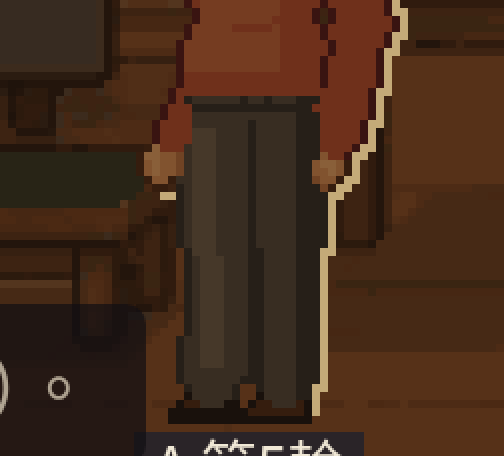
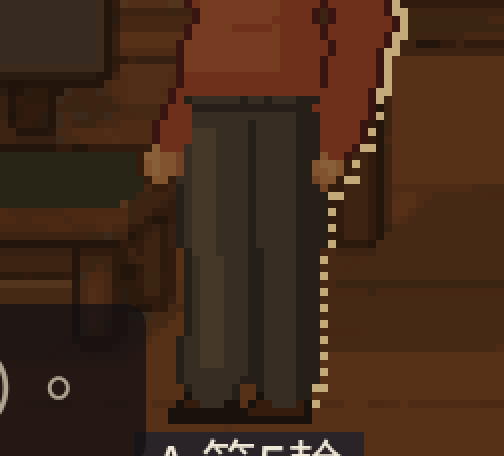
Phone B DEV: fade evening rim below the waist; drop occluded light-side and notch-top pixels
The left-hand stray was an open >1px arm/body gap treated as a right-facing edge.
A light-side rim pixel is kept only if a same-row scan toward the light meets no
opaque sprite pixel. Top rim likewise requires a clear column above. Waist is
55% of the opaque bbox (no belt pinch); below it, every other light-side row.

Changed region(s): [[0.5952, 0.2149, 0.7738, 0.9211], [0.3274, 0.3991, 0.3571, 0.4605]]

diff --git a/game.js b/game.js
@@ -368,27 +368,36 @@ function ease(t) { return t < 0.5 ? 2 * t * t : 1 - Math.pow(-2 * t + 2, 2) / 2;
 // Colour #c4aa78 is grandpa_khaki light in the 48-colour family palette
 // (and in the 3349 palette).
 //
-// Not a full ring (王 + 王子 2026-11-11). A candidate rim pixel must be:
+// Not a full ring (王 + 王子 2026-11-11, tightened 王/王子/小兵2號).
+// A candidate rim pixel must be:
 //   1. Transparent, 8-adjacent to the silhouette, and in the exterior
 //      region (4-connected flood from the padded canvas border). Enclosed
 //      holes (e.g. between arm and body) are not exterior, so they get no rim.
 //   2. Not in a 1 px channel (opaque on both left and right, or both above
 //      and below) — this also drops gaps open to the outside, e.g. between legs.
 //   3. Strictly above the floor-contact row (the sprite's lowest opaque row).
-//      No rim on or below that row, so the character does not look as if
-//      it is floating.
-//   4. Either (a) an upward-facing edge in the upper 40% of the opaque
-//      bbox — neighbouring opaque pixel is directly below; this is the top
-//      of the head and the shoulders — or (b) a light-facing side edge
-//      (opaque neighbour toward the anti-light side) over the remaining
-//      height. No rim on the back-lit side.
+//   4. Either (a) an upward-facing, unoccluded-above edge in the upper 30%
+//      of the opaque bbox (head and shoulder crown: opaque directly below,
+//      and no opaque pixel above in the same column), or (b) a light-facing
+//      side edge that is the outermost contour toward the light: an opaque
+//      neighbour toward the anti-light side, AND scanning along the same
+//      row TOWARD the light (world direction, already flipped into
+//      localLight) meets no opaque sprite pixel. A gap wider than 1 px
+//      between the back-lit arm and the body used to count as a right-facing
+//      edge (the arm sat to the left of the gap pixel); the unoccluded
+//      scan drops those. Scanning the other way (toward the back-lit side)
+//      would keep the stray left-hand dots, so that is not the test.
+//   5. Below the waist, light-side pixels are drawn only on alternate rows
+//      (the first row below the waist is skipped). The waist is 55% down
+//      the opaque bbox; there is no clear belt pinch on these sprites.
 // Light side is a world direction from the backdrop (manifest light_side,
 // overridable per screen in scenes.json), not sprite-local: a flipped
 // sprite still takes the rim on the world-lit side.
 const CHAR_RIM_HEX = '#c4aa78';
 const CHAR_RIM_RGB = [196, 170, 120];
 const CHAR_RIM_PAD = 1;
-const CHAR_RIM_TOP_FRAC = 0.40;
+const CHAR_RIM_TOP_FRAC = 0.30;
+const CHAR_RIM_WAIST_FRAC = 0.55;
 const charRimCache = new WeakMap(); // im -> {left, right}
 
 function eveningLit() {
@@ -453,6 +462,20 @@ function applyCharRim(im, localLight) {
     ? [[0, -1], [-1, -1], [1, -1]]  // body is to the left of a right-side rim pixel
     : [[0, 1], [-1, 1], [1, 1]];
   const cutoff = (y1 >= y0) ? (y0 + CHAR_RIM_TOP_FRAC * (y1 - y0)) : 0;
+  const waistY = (y1 >= y0) ? Math.round(y0 + CHAR_RIM_WAIST_FRAC * (y1 - y0)) : 0;
+  const towardLight = (side === 'right') ? 1 : -1; // sprite-local +x; localLight already includes flip
+  function unoccludedTowardLight(X, Y) {
+    for (let nx = X + towardLight; nx >= 0 && nx < outW; nx += towardLight) {
+      if (opaque[Y * outW + nx]) return false;
+    }
+    return true;
+  }
+  function unoccludedAbove(X, Y) {
+    for (let ny = Y - 1; ny >= 0; ny--) {
+      if (opaque[ny * outW + X]) return false;
+    }
+    return true;
+  }
   const out = document.createElement('canvas');
   out.width = outW; out.height = outH;
   const og = out.getContext('2d');
@@ -479,12 +502,17 @@ function applyCharRim(im, localLight) {
         }
         if (!adj) continue;
         let isTop = false;
-        if (srcy <= cutoff && downOp) isTop = true; // upward-facing: opaque directly below
+        if (srcy <= cutoff && downOp && unoccludedAbove(X, Y)) isTop = true;
         let isSide = false;
         for (const [dy, dx] of sideDirs) {
           const ny = Y + dy, nx = X + dx;
           if (ny < 0 || nx < 0 || ny >= outH || nx >= outW) continue;
           if (opaque[ny * outW + nx]) { isSide = true; break; }
+        }
+        if (isSide) {
+          if (!unoccludedTowardLight(X, Y)) isSide = false;
+          // Below the waist: only every other row (first row below waist skipped).
+          else if (srcy > waistY && ((srcy - waistY) % 2 === 1)) isSide = false;
         }
         if (!isTop && !isSide) continue;
         const o = i * 4;
@@ -495,7 +523,7 @@ function applyCharRim(im, localLight) {
   og.putImageData(id, 0, 0);
   og.imageSmoothingEnabled = false;
   og.drawImage(im, pad, pad);
-  const baked = { canvas: out, pad: pad, srcW: w, srcH: h, localLight: side, feetRow: y1, topCutoff: cutoff };
+  const baked = { canvas: out, pad: pad, srcW: w, srcH: h, localLight: side, feetRow: y1, topCutoff: cutoff, waistY: waistY };
   if (!slot) { slot = {}; charRimCache.set(im, slot); }
   slot[side] = baked;
   return baked;
@@ -2374,8 +2402,8 @@ function drawStyleTrialMomA5c(now) {
   // expose for shoot.py
   window.goKey = goKey;
   window.RIM = RIM;
-  window.CHAR_RIM = { hex: CHAR_RIM_HEX, rgb: CHAR_RIM_RGB, pad: CHAR_RIM_PAD, topFrac: CHAR_RIM_TOP_FRAC,
-    placement: 'exterior top/shoulders + light-facing side, no feet row, no holes or 1px channels',
+  window.CHAR_RIM = { hex: CHAR_RIM_HEX, rgb: CHAR_RIM_RGB, pad: CHAR_RIM_PAD, topFrac: CHAR_RIM_TOP_FRAC, waistFrac: CHAR_RIM_WAIST_FRAC,
+    placement: 'unoccluded head/shoulder crown (upper 30%) + outermost light-facing side, faded below waist, no feet row, no holes or 1px channels',
     palette: 'family #c4aa78 grandpa_khaki light (also in 3349)',
     lightSide: typeof worldLightSide === 'function' ? worldLightSide() : 'right' };
   window.worldLightSide = worldLightSide;

diff --git a/scripts/shoot_rim_a5c.py b/scripts/shoot_rim_a5c.py
@@ -32,7 +32,8 @@ STAND_X = 295
 SHOT = 2340, 1080
 SX, SCALE, NW, NH = 210, 4, 480, 270
 RIM_RGB = (196, 170, 120)
-TOP_FRAC = 0.40
+TOP_FRAC = 0.30
+WAIST_FRAC = 0.55
 LOCAL_LIGHT = "right"  # unflipped, world light is right
 # Inclusive native scene boxes for 8× crops
 FACE_BOX = (286, 160, 308, 196)
@@ -214,7 +215,9 @@ def predicted_rim(sprite: np.ndarray, local_light: str = "right"):
             stack.append((y + dy, x + dx))
     N8 = [(-1, 0), (1, 0), (0, -1), (0, 1), (-1, -1), (-1, 1), (1, -1), (1, 1)]
     side_dirs = ((0, -1), (-1, -1), (1, -1)) if local_light == "right" else ((0, 1), (-1, 1), (1, 1))
+    toward = 1 if local_light == "right" else -1
     cutoff = y0 + TOP_FRAC * (y1 - y0)
+    waist_y = int(round(y0 + WAIST_FRAC * (y1 - y0)))
     rim = np.zeros((H, W), dtype=bool)
     ring = np.zeros((H, W), dtype=bool)
     for y in range(H):
@@ -231,14 +234,24 @@ def predicted_rim(sprite: np.ndarray, local_light: str = "right"):
             if srcy >= y1:
                 continue
             ring[y, x] = True
-            is_top = srcy <= cutoff and (y + 1 < H and op[y + 1, x])
+            above_clear = not any(op[ny, x] for ny in range(0, y))
+            is_top = srcy <= cutoff and (y + 1 < H and op[y + 1, x]) and above_clear
             is_side = any(
                 0 <= y + dy < H and 0 <= x + dx < W and op[y + dy, x + dx]
                 for dy, dx in side_dirs
             )
+            if is_side:
+                nx = x + toward
+                while 0 <= nx < W:
+                    if op[y, nx]:
+                        is_side = False
+                        break
+                    nx += toward
+                if is_side and srcy > waist_y and ((srcy - waist_y) % 2 == 1):
+                    is_side = False
             if is_top or is_side:
                 rim[y, x] = True
-    return {"rim": rim, "ring": ring, "y0": y0, "y1": y1, "cutoff": cutoff, "pad": pad, "H": H, "W": W}
+    return {"rim": rim, "ring": ring, "y0": y0, "y1": y1, "cutoff": cutoff, "waist_y": waist_y, "pad": pad, "H": H, "W": W}
 
 
 def summarize(crs):
